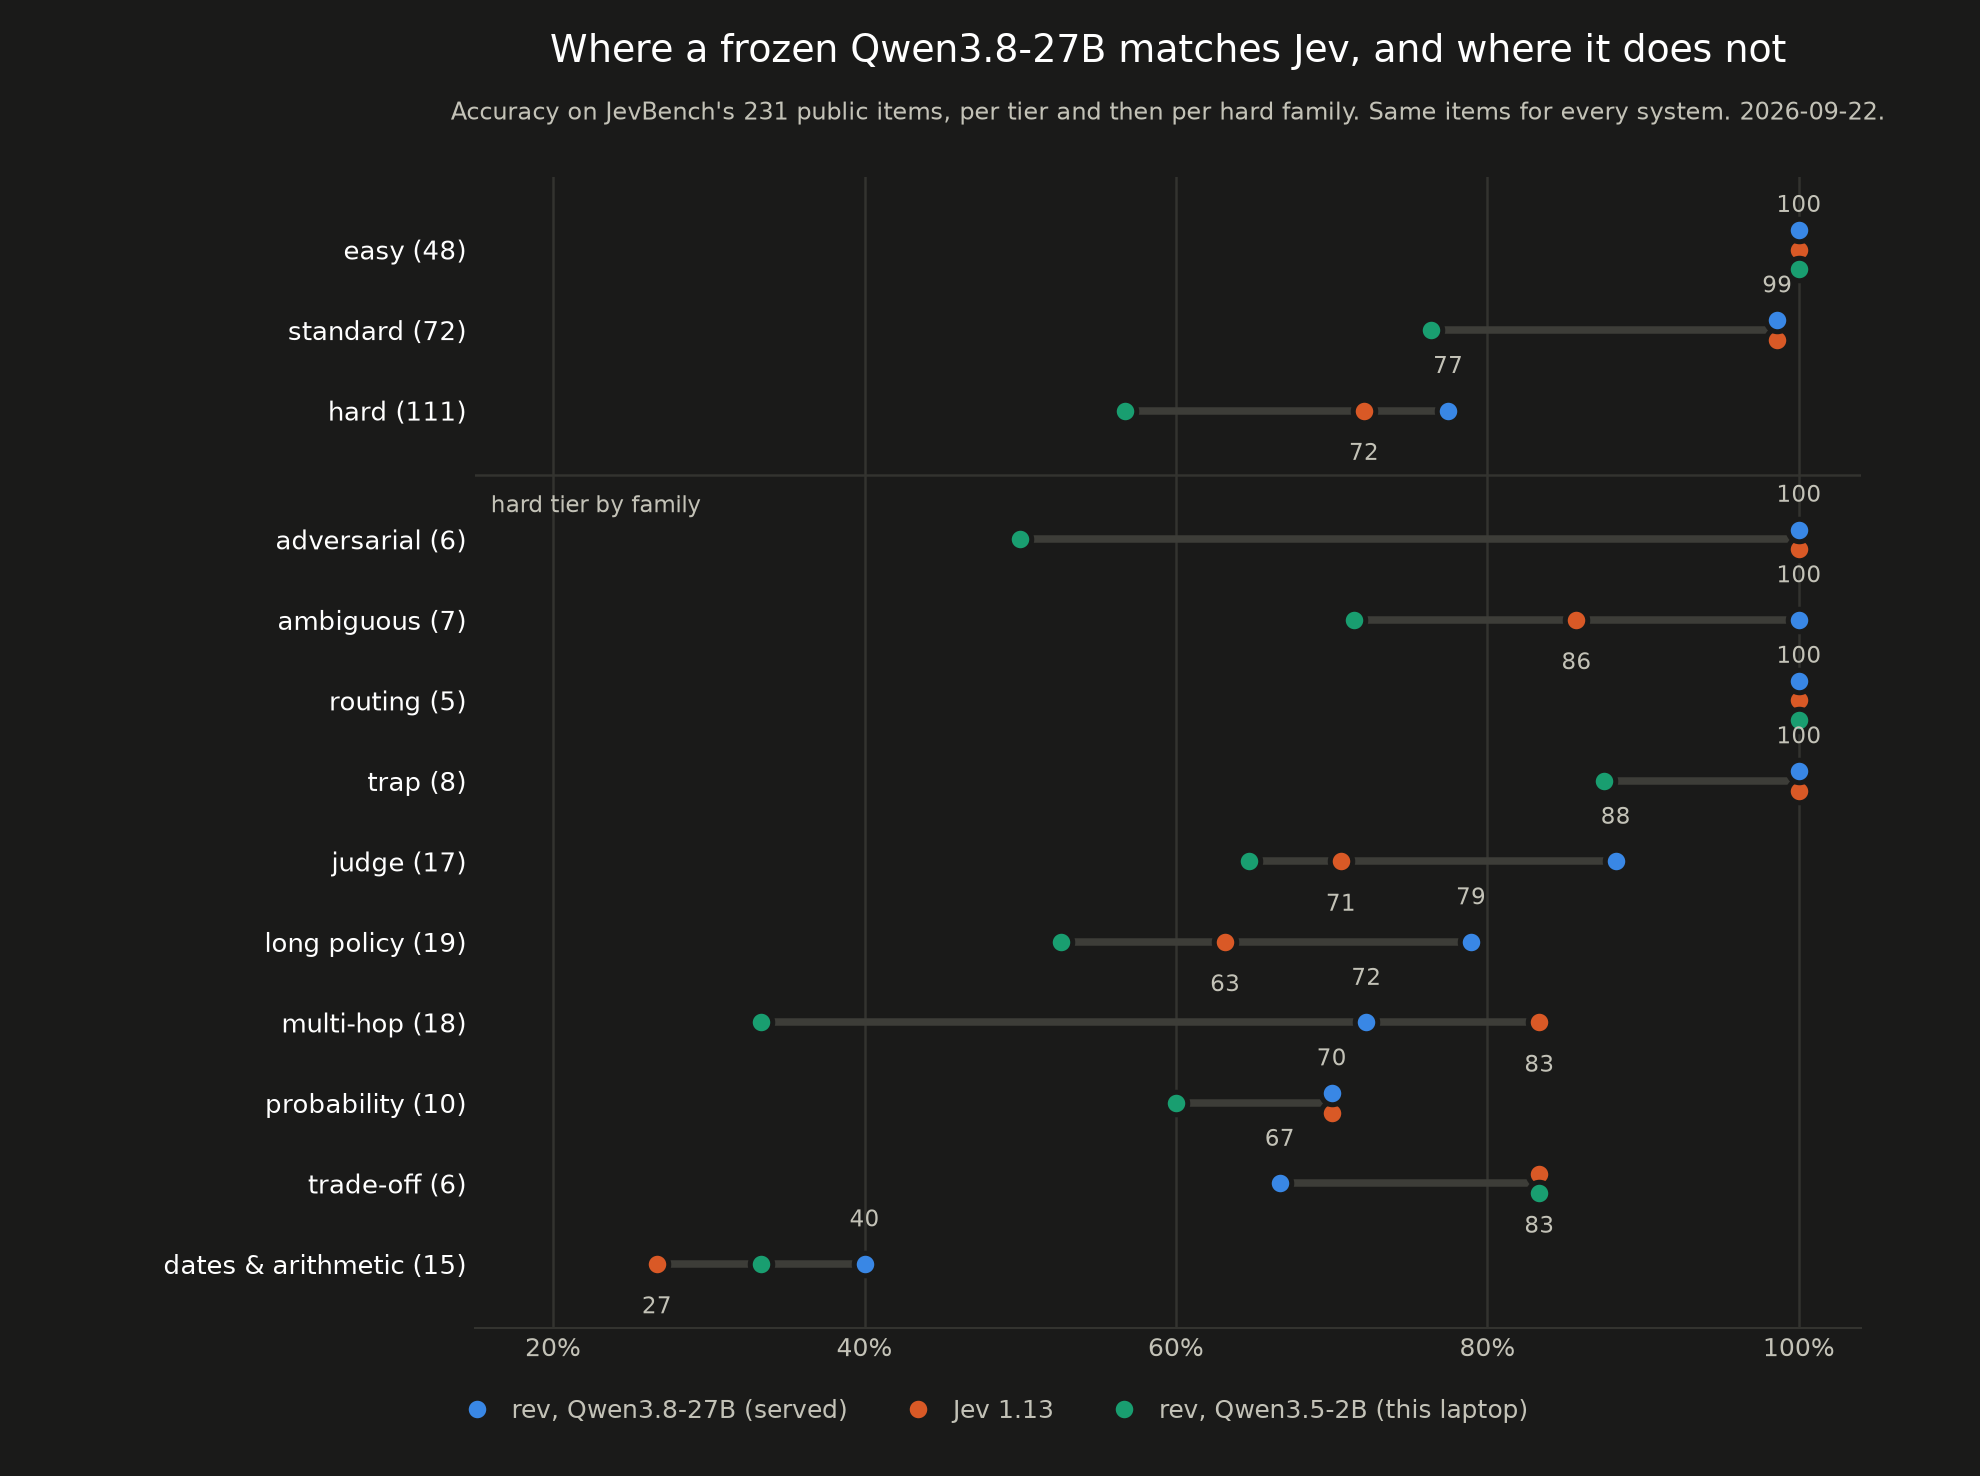
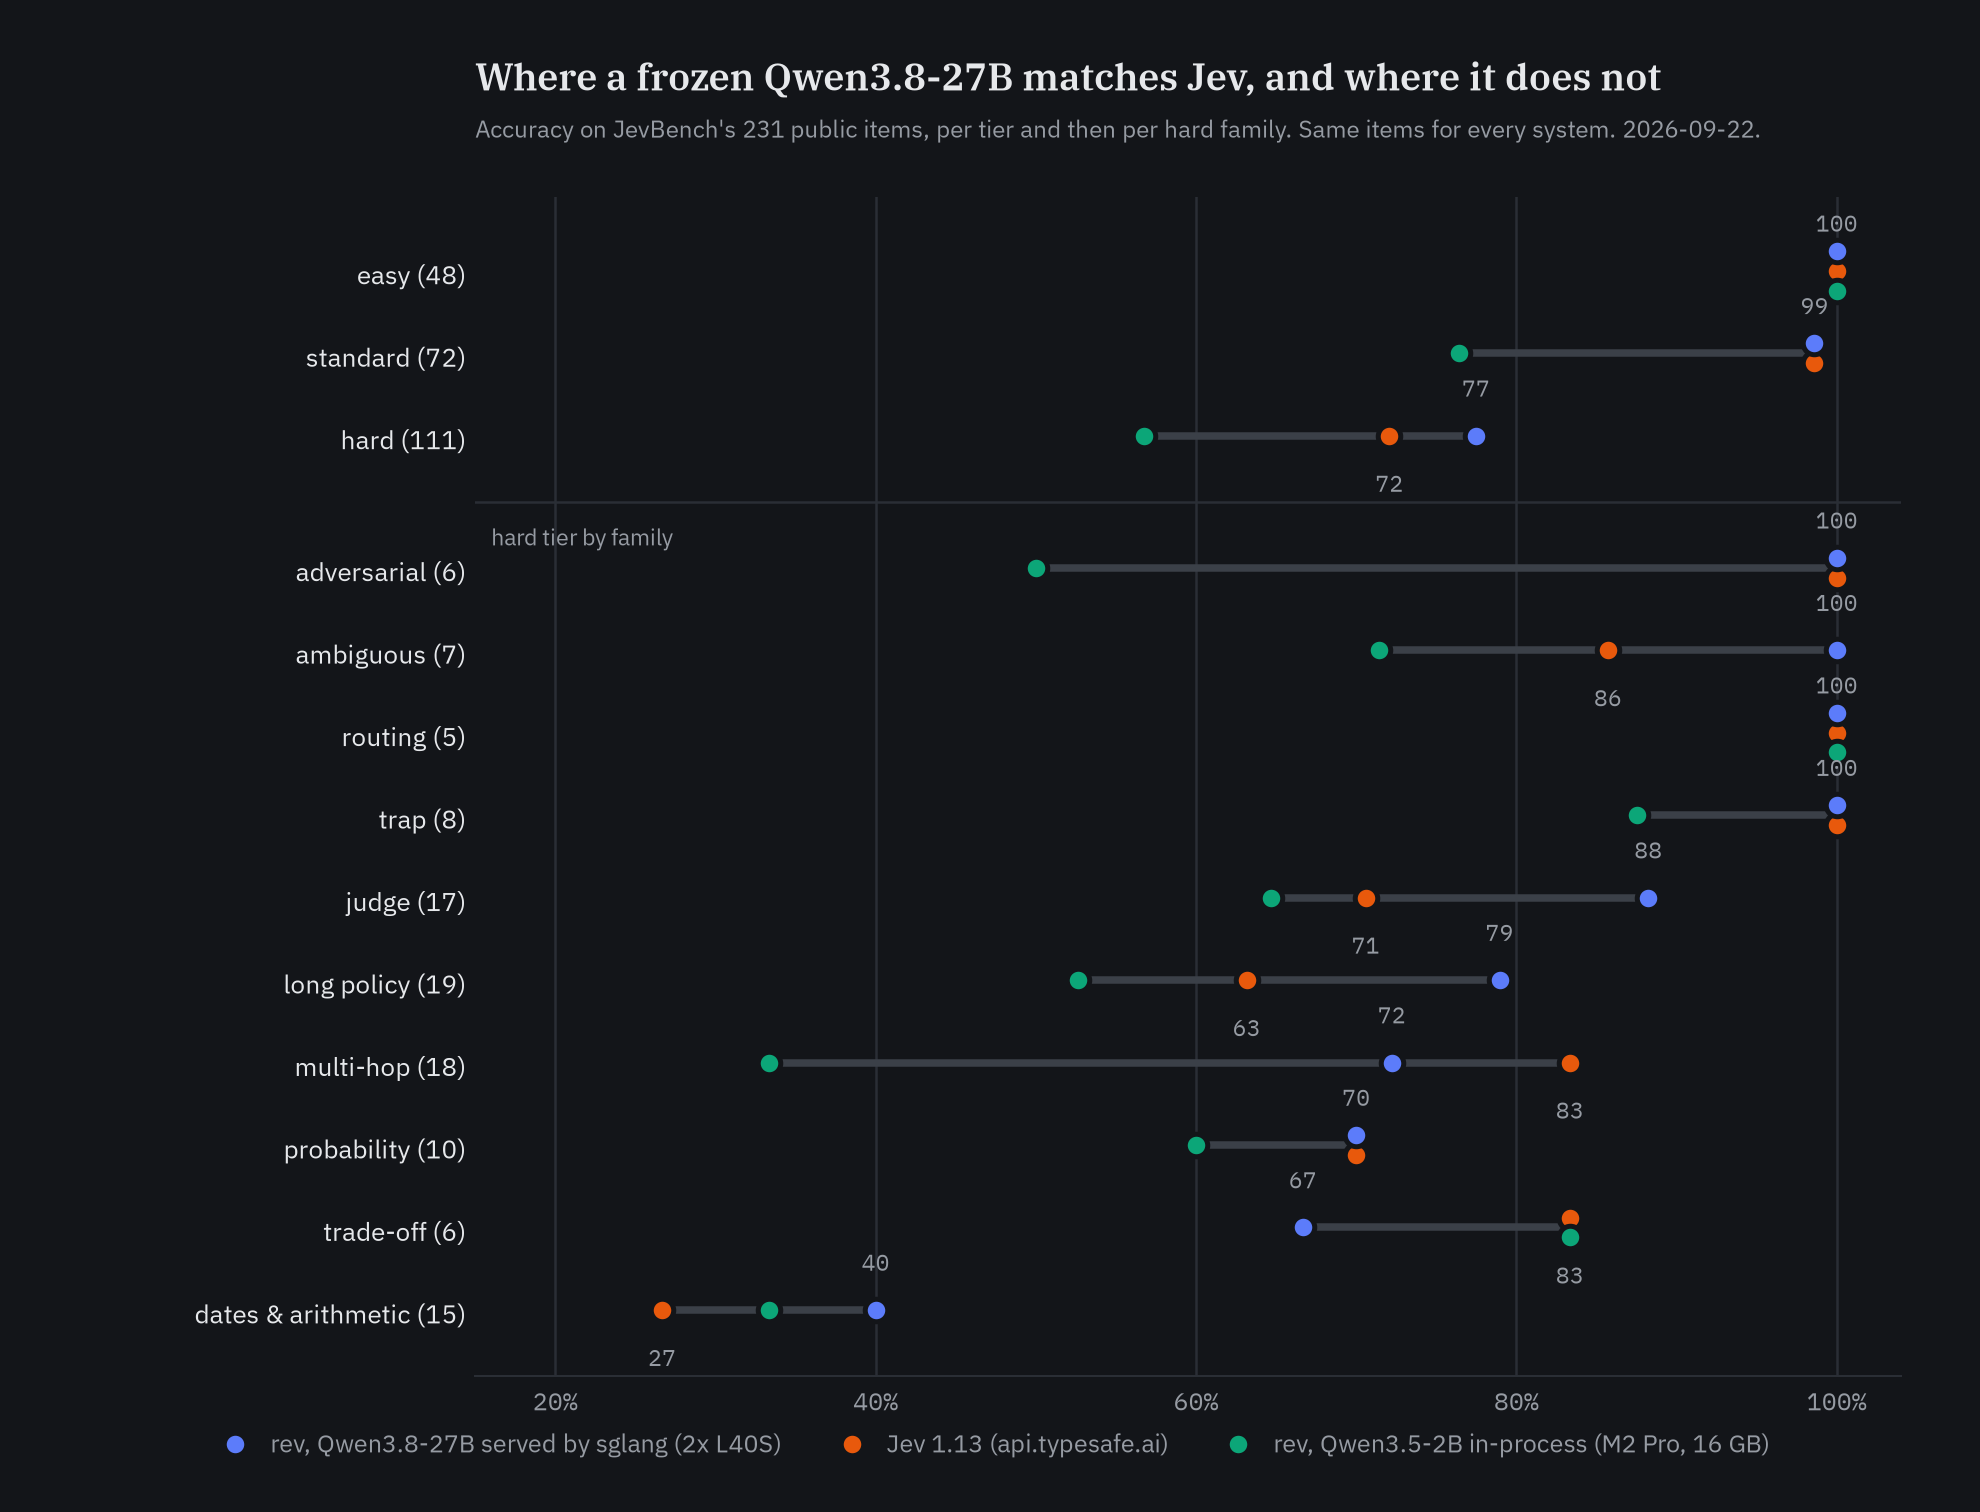
Charts in our own style: paper and ink, IBM Plex, colour only on data; the hardware named in every label
Claude-Session: https://claude.ai/code/session_019rQaKSHtYbVQrKqEMaNm37

diff --git a/bench/plot_readme.py b/bench/plot_readme.py
@@ -7,13 +7,22 @@ Inputs (all in bench/results/, all written by the bench scripts, never by hand):
   speed-<system>.json             bench/speed.py --label       latency and throughput
 
 Systems drawn, in fixed colour order: rev on Qwen3.8-27B (blue), Jev (orange),
-rev on Qwen3.5-2B locally (aqua). Three series is the most this palette seats
-on one chart; add a fourth as a new chart, not a new colour.
+rev on Qwen3.5-2B on an M2 Pro (green). Three series is the most this palette
+seats on one chart; add a fourth as a new chart, not a new colour.
+
+Style: paper and ink, and the only colour on the page is data (the same rule
+as Parley, whose tokens these are). IBM Plex: Serif for the title, Sans for
+text, Mono for numbers. The fonts are fetched once into ~/.cache/rev/fonts
+(OFL, from the google/fonts repo); without them the charts fall back to
+DejaVu and say so.
 """
 
 from __future__ import annotations
 
 import json
+import os
+import sys
+import urllib.request
 from pathlib import Path
 
 import matplotlib
@@ -27,16 +36,53 @@ RESULTS = HERE / "results"
 OUT = HERE.parent / "docs" / "charts"
 
 SYSTEMS = [  # key, label, results suffix, speed file
-    ("27b", "rev, Qwen3.8-27B (served)", "27b", "speed-remote-logprob.json"),
-    ("jev", "Jev 1.13", "jev", "speed-jev.json"),
-    ("2b", "rev, Qwen3.5-2B (this laptop)", "2b", "speed-rev.json"),
+    ("27b", "rev, Qwen3.8-27B served by sglang (2x L40S)", "27b", "speed-remote-logprob.json"),
+    ("jev", "Jev 1.13 (api.typesafe.ai)", "jev", "speed-jev.json"),
+    ("2b", "rev, Qwen3.5-2B in-process (M2 Pro, 16 GB)", "2b", "speed-rev.json"),
 ]
+# Parley's tokens: paper / ink, rules, and its first three speaker hues for the
+# data. The dark hues are one step deeper than Parley's own so they sit in the
+# validated lightness band on the dark paper.
 THEMES = {
-    "light": {"surface": "#fcfcfb", "text": "#0b0b0b", "muted": "#52514e", "grid": "#e6e5e1",
-              "range": "#d9d8d3", "series": ["#2a78d6", "#eb6834", "#1baf7a"]},
-    "dark":  {"surface": "#1a1a19", "text": "#ffffff", "muted": "#c3c2b7", "grid": "#33332f",
-              "range": "#3d3d38", "series": ["#3987e5", "#d95926", "#199e70"]},
+    "light": {"surface": "#f5f6f7", "text": "#16181d", "muted": "#6c7079", "grid": "#dfe2e6",
+              "range": "#c9ced4", "series": ["#3b5bdb", "#e8590c", "#087f5b"]},
+    "dark":  {"surface": "#131519", "text": "#e6e8eb", "muted": "#969ba3", "grid": "#2a2e35",
+              "range": "#3b4048", "series": ["#5c7cfa", "#e8590c", "#0ca678"]},
 }
+
+FONT_DIR = Path(os.path.expanduser("~/.cache/rev/fonts"))
+FONT_FILES = {  # file name -> where google/fonts keeps it (OFL)
+    "IBMPlexSerif-SemiBold.ttf": "ofl/ibmplexserif/IBMPlexSerif-SemiBold.ttf",
+    "IBMPlexMono-Regular.ttf": "ofl/ibmplexmono/IBMPlexMono-Regular.ttf",
+    "IBMPlexSans-Variable.ttf": "ofl/ibmplexsans/IBMPlexSans%5Bwdth%2Cwght%5D.ttf",
+}
+FONTS = {"title": "IBM Plex Serif", "text": "IBM Plex Sans", "num": "IBM Plex Mono"}
+
+
+def ensure_fonts() -> bool:
+    """Register IBM Plex with matplotlib, fetching it on first use. False = fallback."""
+    import matplotlib.font_manager as fm
+    try:
+        FONT_DIR.mkdir(parents=True, exist_ok=True)
+        for name, path in FONT_FILES.items():
+            f = FONT_DIR / name
+            if not f.exists():
+                urllib.request.urlretrieve(f"https://raw.githubusercontent.com/google/fonts/main/{path}", f)
+        # Sans ships as a variable font; matplotlib wants one file per weight.
+        if not (FONT_DIR / "IBMPlexSans-SemiBold.ttf").exists():
+            from fontTools.ttLib import TTFont
+            from fontTools.varLib.instancer import instantiateVariableFont
+            for w, inst in ((400, "Regular"), (500, "Medium"), (600, "SemiBold")):
+                font = TTFont(FONT_DIR / "IBMPlexSans-Variable.ttf")
+                instantiateVariableFont(font, {"wght": w, "wdth": 100}).save(FONT_DIR / f"IBMPlexSans-{inst}.ttf")
+        for f in FONT_DIR.glob("IBMPlex*-*.ttf"):
+            if "Variable" not in f.name:
+                fm.fontManager.addfont(str(f))
+        return True
+    except Exception as e:                      # noqa: BLE001
+        print(f"[plot] IBM Plex unavailable ({e}); using DejaVu", file=sys.stderr)
+        FONTS.update(title="DejaVu Serif", text="DejaVu Sans", num="DejaVu Sans Mono")
+        return False
 FAMILY_LABEL = {
     "adversarial": "adversarial", "ambiguous": "ambiguous", "judge_hard": "judge",
     "long_policy": "long policy", "multi_hop": "multi-hop", "probability": "probability",
@@ -58,13 +104,29 @@ def style(ax, t):
     ax.tick_params(colors=t["muted"], labelsize=10, length=0)
     ax.grid(axis="x", color=t["grid"], linewidth=1)
     ax.set_axisbelow(True)
+    for lab in ax.get_xticklabels() + ax.get_yticklabels():
+        lab.set_family(FONTS["num"])
 
 
 def figure(t, height):
     fig = plt.figure(figsize=(11, height), dpi=180, facecolor=t["surface"])
-    plt.rcParams.update({"font.family": "DejaVu Sans", "text.color": t["text"],
+    plt.rcParams.update({"font.family": FONTS["text"], "text.color": t["text"],
                          "axes.labelcolor": t["muted"]})
     return fig
+
+
+def title(ax, t, main, sub, y=1.16, dy=0.075):
+    """Title in serif, subtitle in sans, both flush with the plot's left edge.
+    `y` is axes-relative; tall plots pass a smaller one so it stays on the page."""
+    ax.text(0, y, main, transform=ax.transAxes, ha="left", fontsize=15, color=t["text"],
+            family=FONTS["title"], weight=600)
+    ax.text(0, y - dy, sub, transform=ax.transAxes, ha="left", fontsize=9.5, color=t["muted"])
+
+
+def num(ax, x, y, text, t, **kw):
+    """A number in mono, in ink, never in the series colour."""
+    kw.setdefault("fontsize", 9); kw.setdefault("color", t["muted"])
+    ax.text(x, y, text, family=FONTS["num"], **kw)
 
 
 def dot(ax, x, y, color, t, z=3):
@@ -90,8 +152,8 @@ def accuracy(theme):
     n = data["27b"]["hard"]["n_by_family"]
     frows = [(f"{FAMILY_LABEL.get(f, f)} ({n[f]})", (lambda f: lambda d: d["hard"]["by_family"][f])(f)) for f in fams]
 
-    fig = figure(t, 8.2)
-    ax = fig.add_axes([0.24, 0.10, 0.70, 0.78])
+    fig = figure(t, 8.4)
+    ax = fig.add_axes([0.24, 0.09, 0.72, 0.78])
     style(ax, t)
     ys, labels = [], []
     y = 0
@@ -115,19 +177,19 @@ def accuracy(theme):
         # direct labels: the served 27B above, Jev below, only where they differ from each other
         a, b = vals.get("27b"), vals.get("jev")
         if a is not None:
-            ax.text(a * 100, y + 0.40, f"{a*100:.0f}", ha="center", va="bottom", fontsize=9, color=t["muted"])
+            num(ax, a * 100, y + 0.40, f"{a*100:.0f}", t, ha="center", va="bottom")
         if b is not None and (a is None or abs(a - b) > 0.005):
-            ax.text(b * 100, y - 0.40, f"{b*100:.0f}", ha="center", va="top", fontsize=9, color=t["muted"])
+            num(ax, b * 100, y - 0.40, f"{b*100:.0f}", t, ha="center", va="top")
         ys.append(y); labels.append(label)
         y -= 1
-    ax.set_yticks(ys); ax.set_yticklabels(labels, fontsize=10.5, color=t["text"])
     ax.set_xlim(15, 104); ax.set_ylim(y + 0.2, 0.9)
     ax.set_xticks([20, 40, 60, 80, 100]); ax.set_xticklabels([f"{v}%" for v in (20, 40, 60, 80, 100)])
-    ax.text(0.5, 1.10, "Where a frozen Qwen3.8-27B matches Jev, and where it does not",
-            transform=ax.transAxes, ha="center", fontsize=15, color=t["text"], weight="medium")
-    ax.text(0.5, 1.05, "Accuracy on JevBench's 231 public items, per tier and then per hard family. "
-                       "Same items for every system. 2026-09-22.",
-            transform=ax.transAxes, ha="center", fontsize=9.5, color=t["muted"])
+    ax.set_yticks(ys); ax.set_yticklabels(labels, fontsize=10.5, color=t["text"])
+    for lab in ax.get_yticklabels():
+        lab.set_family(FONTS["text"])
+    title(ax, t, "Where a frozen Qwen3.8-27B matches Jev, and where it does not",
+          "Accuracy on JevBench's 231 public items, per tier and then per hard family. "
+          "Same items for every system. 2026-09-22.", y=1.09, dy=0.04)
     ax.axhline(-2.8, color=t["grid"], linewidth=1)
     ax.text(16, -3.05, "hard tier by family", fontsize=9, color=t["muted"], va="top")
     legend(fig, t, [s[1] for s in SYSTEMS], t["series"])
@@ -155,19 +217,19 @@ def latency(theme):
             ax.plot([p50, p95], [y, y], color=t["series"][j], linewidth=2, alpha=0.45, zorder=2,
                     solid_capstyle="round")
             dot(ax, p50, y, t["series"][j], t)
-            ax.text(p95 * 1.08, y, f"{p50} / {p95} ms", va="center", fontsize=8.5, color=t["muted"])
+            num(ax, p95 * 1.08, y, f"{p50} / {p95} ms", t, va="center", fontsize=8.5)
         ys.append(-i); labels.append(label)
     ax.set_xscale("log")
     ax.xaxis.set_minor_locator(matplotlib.ticker.NullLocator())
     ax.set_xlim(90, 9000)
     ax.set_xticks([100, 300, 1000, 3000]); ax.set_xticklabels(["100 ms", "300 ms", "1 s", "3 s"])
     ax.set_yticks(ys); ax.set_yticklabels(labels, fontsize=10.5, color=t["text"])
+    for lab in ax.get_yticklabels():
+        lab.set_family(FONTS["text"])
     ax.set_ylim(-len(kinds) + 0.45, 0.55)
-    ax.text(0.5, 1.16, "One question, end to end: median, with the line reaching p95",
-            transform=ax.transAxes, ha="center", fontsize=15, color=t["text"], weight="medium")
-    ax.text(0.5, 1.08, "Same client, same items. The 27B is two network hops away on a cluster; "
-                       "Jev via its API; the 2B in-process on an M2 Pro.",
-            transform=ax.transAxes, ha="center", fontsize=9.5, color=t["muted"])
+    title(ax, t, "One question, end to end: median, with the line reaching p95",
+          "Same client, same items. The 27B is two network hops away on a cluster; "
+          "Jev via its API; the 2B in-process on an M2 Pro.")
     legend(fig, t, [s[1] for s in SYSTEMS], t["series"])
     fig.savefig(OUT / f"latency-{theme}.png", facecolor=t["surface"])
     plt.close(fig)
@@ -176,8 +238,8 @@ def latency(theme):
 # --- 3. the gate: coverage against accuracy on hard ----------------------------
 def gate(theme):
     t = THEMES[theme]
-    fig = figure(t, 4.8)
-    ax = fig.add_axes([0.10, 0.17, 0.86, 0.62])
+    fig = figure(t, 5.0)
+    ax = fig.add_axes([0.10, 0.22, 0.86, 0.58])
     style(ax, t)
     ax.grid(axis="y", color=t["grid"], linewidth=1)
     for j, (k, label, suf, _) in enumerate(SYSTEMS):
@@ -207,17 +269,16 @@ def gate(theme):
     ax.set_yticks([50, 60, 70, 80, 90, 100]); ax.set_yticklabels(["50%", "60%", "70%", "80%", "90%", "100%"])
     ax.set_xlabel("share of hard items answered (most confident first)", fontsize=9.5)
     ax.set_ylabel("accuracy on what was answered", fontsize=9.5)
-    ax.text(0.5, 1.16, "What a confidence gate buys on the hard tier",
-            transform=ax.transAxes, ha="center", fontsize=15, color=t["text"], weight="medium")
-    ax.text(0.5, 1.08, "Items sorted by each system's own confidence. Act above a threshold, "
-                       "hand the rest to a person; the dot is the 0.9 gate.",
-            transform=ax.transAxes, ha="center", fontsize=9.5, color=t["muted"])
+    title(ax, t, "What a confidence gate buys on the hard tier",
+          "Items sorted by each system's own confidence. Act above a threshold, "
+          "hand the rest to a person; the dot is the 0.9 gate.")
     legend(fig, t, [s[1] for s in SYSTEMS], t["series"])
     fig.savefig(OUT / f"gate-{theme}.png", facecolor=t["surface"])
     plt.close(fig)
 
 
 if __name__ == "__main__":
+    ensure_fonts()
     OUT.mkdir(parents=True, exist_ok=True)
     for theme in THEMES:
         accuracy(theme); latency(theme); gate(theme)

diff --git a/README.md b/README.md
@@ -113,7 +113,7 @@ JevBench public items, Qwen3.8-27B (INT4 AWQ, 2x L40S, DSpark) read exactly,
 
 | | easy (48) | standard (72) | hard (111) |
 |---|---:|---:|---:|
-| rev, Qwen3.5-2B on this laptop | 1.000 | 0.764 | 0.550 |
+| rev, Qwen3.5-2B in-process (M2 Pro, 16 GB) | 1.000 | 0.764 | 0.550 |
 | rev, Qwen3.8-27B via sglang, 32 samples | 1.000 | 0.986 | 0.784 |
 | **rev, Qwen3.8-27B via sglang, exact** | **1.000** | **0.986** | **0.784** |
 | Jev 1.13.0 (commercial) | 1.000 | 0.986 | 0.730 (0.721 measured 2026-09-22) |
